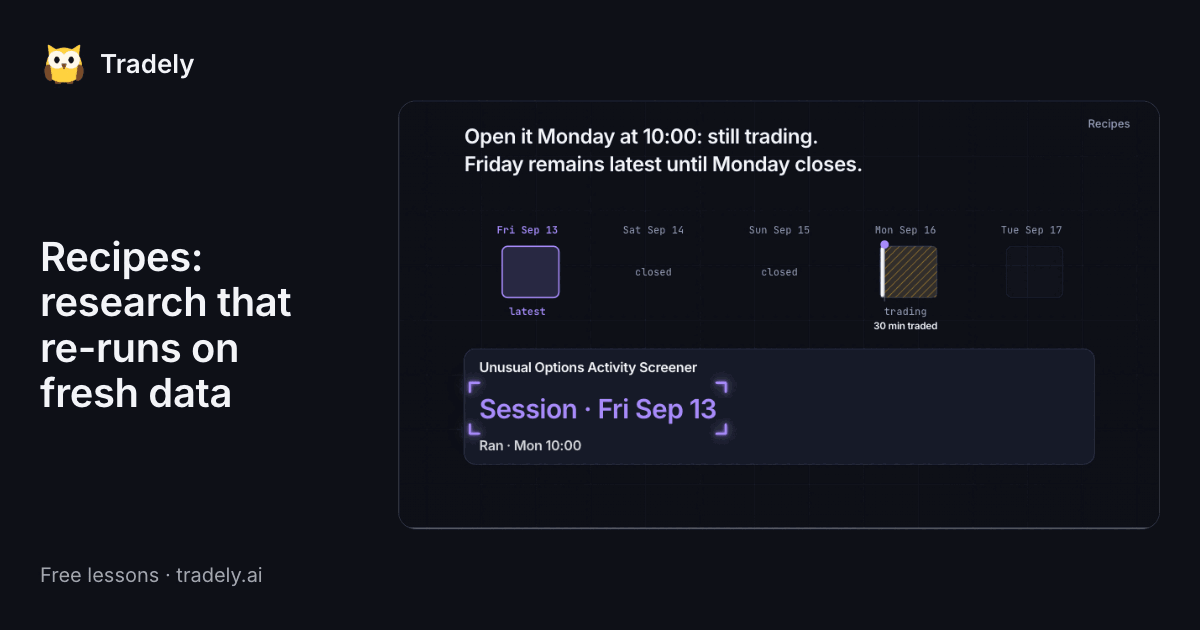
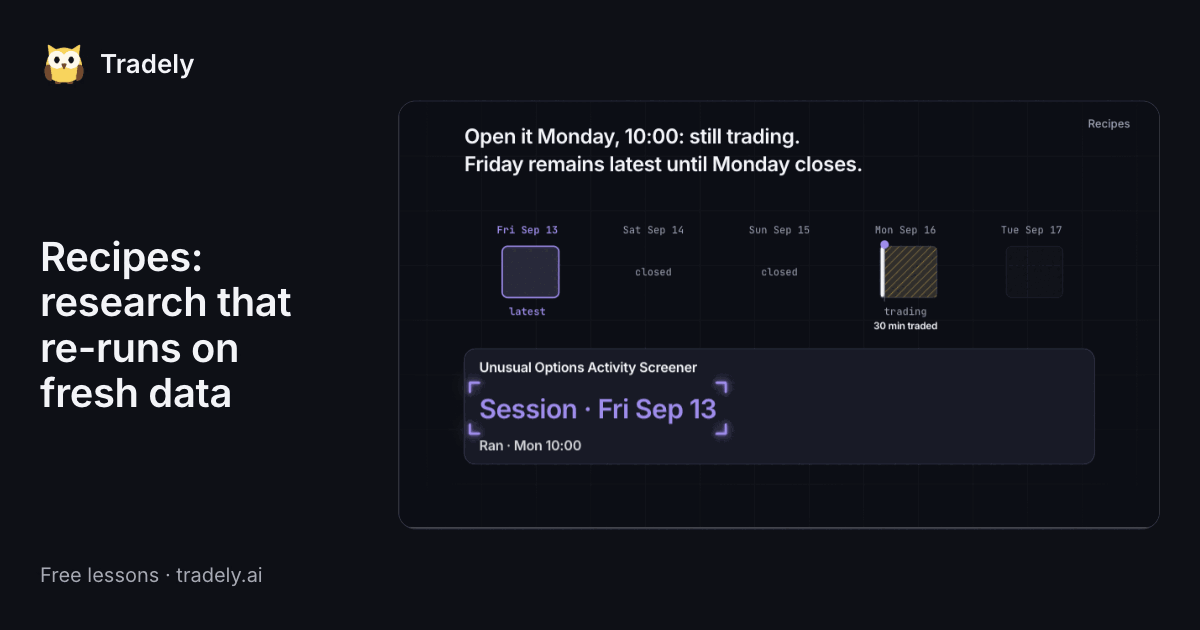
fix(learning): recipes film's three wide headline pairs are 12 words
"You open it Tuesday, 8:00, before the open." drops "You"; "Open it Monday at 10:00" becomes "Open it Monday, 10:00"; "A colleague opens it: the official recipe, unchanged." becomes "Colleagues see the official, unchanged." The phone's lines are unchanged. The share card shows the Monday pair.

The two-line headline rule decided on 2026-11-15: a pair runs 12 words, or 14 where the first line stands alone 5 s and each line is at most 36 characters, and a pair over 8 words stays up 5.5 s. English only; no timing changes.

Changed region(s): [[0.4933, 0.181, 0.6783, 0.2413], [0.0308, 0.0905, 0.0617, 0.1508], [0.4008, 0.6333, 0.4317, 0.6635]]

diff --git a/apps/web/src/features/learning/lessons/tradingflow-recipes-film.tsx b/apps/web/src/features/learning/lessons/tradingflow-recipes-film.tsx
@@ -159,7 +159,7 @@ const copy = {
 	screenHead: ["A screen compares the whole market.", "筛选比较整个市场。"],
 	screenHeadShort: ["Across the market: a screen.", "覆盖整个市场：筛选。"],
 	openHead: [
-		"You open it Tuesday, 8:00, before the open.",
+		"Open it Tuesday, 8:00, before the open.",
 		"你在周二 8:00、开盘前打开它。",
 	],
 	openHeadShort: ["Tuesday, 8:00, before the open.", "周二 8:00，开盘前。"],
@@ -177,7 +177,7 @@ const copy = {
 	],
 	screenerShort: ["UOA Screener", "UOA Screener"],
 	mondayHead: [
-		"Open it Monday at 10:00: still trading.",
+		"Open it Monday, 10:00: still trading.",
 		"周一 10:00 打开：仍在交易。",
 	],
 	mondayHeadShort: [
@@ -197,7 +197,7 @@ const copy = {
 	],
 	forkHeadShort: ["Fork: a private copy.", "分叉：私有副本。"],
 	colleagueHead: [
-		"A colleague opens it: the official recipe, unchanged.",
+		"Colleagues see the official, unchanged.",
 		"同事打开它：未改动的官方 Recipe。",
 	],
 	colleagueHeadShort: ["A colleague: the official one.", "同事：官方版本。"],
